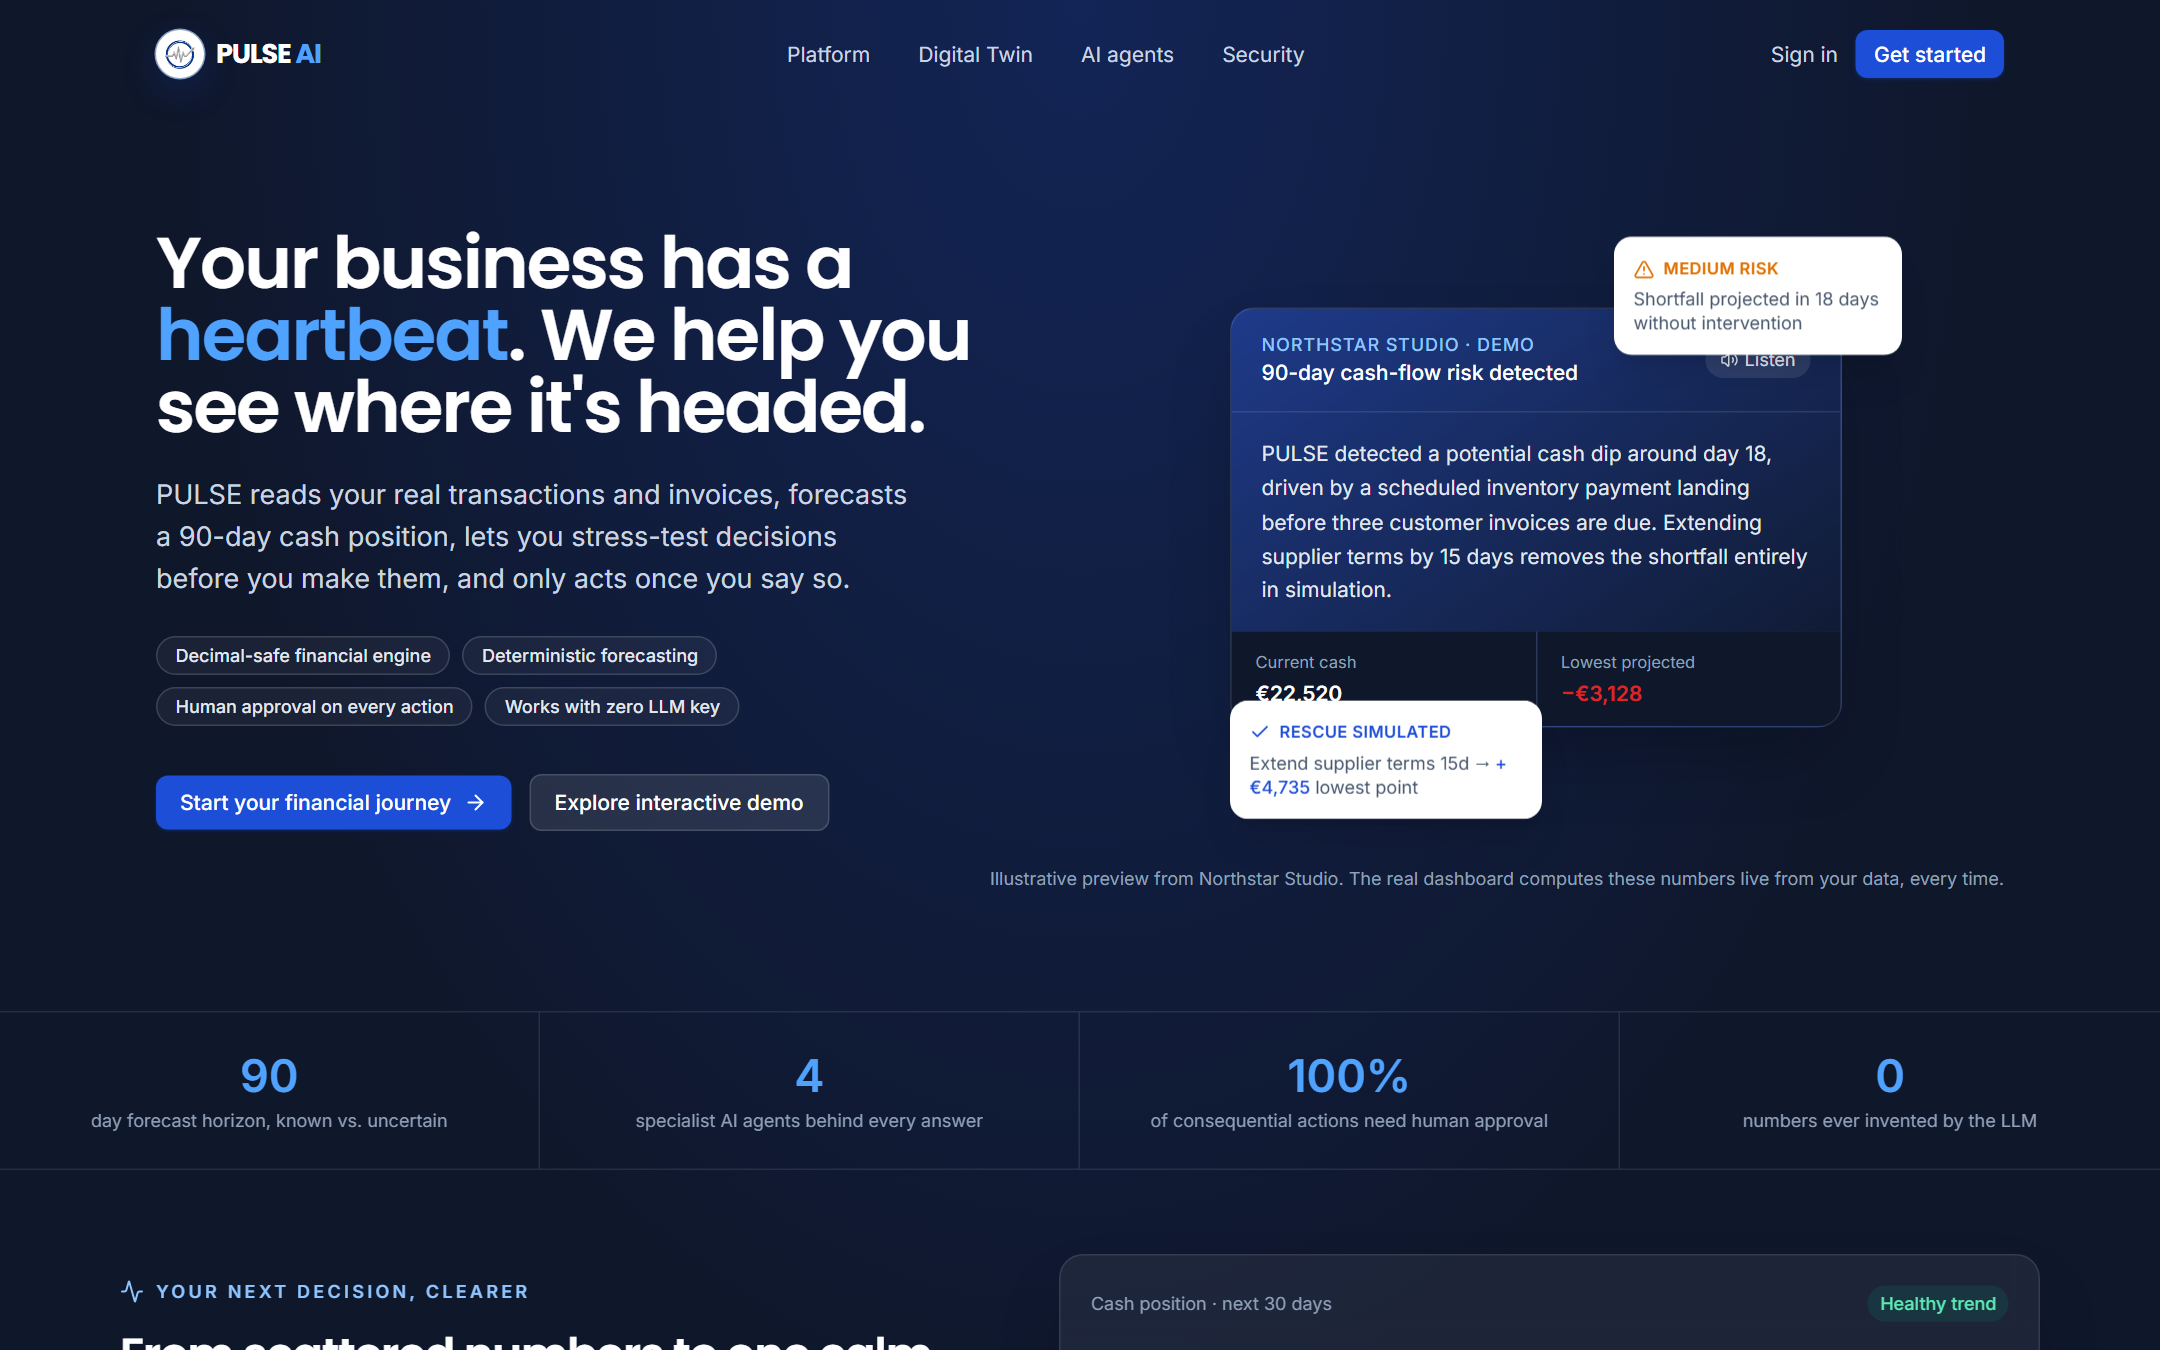
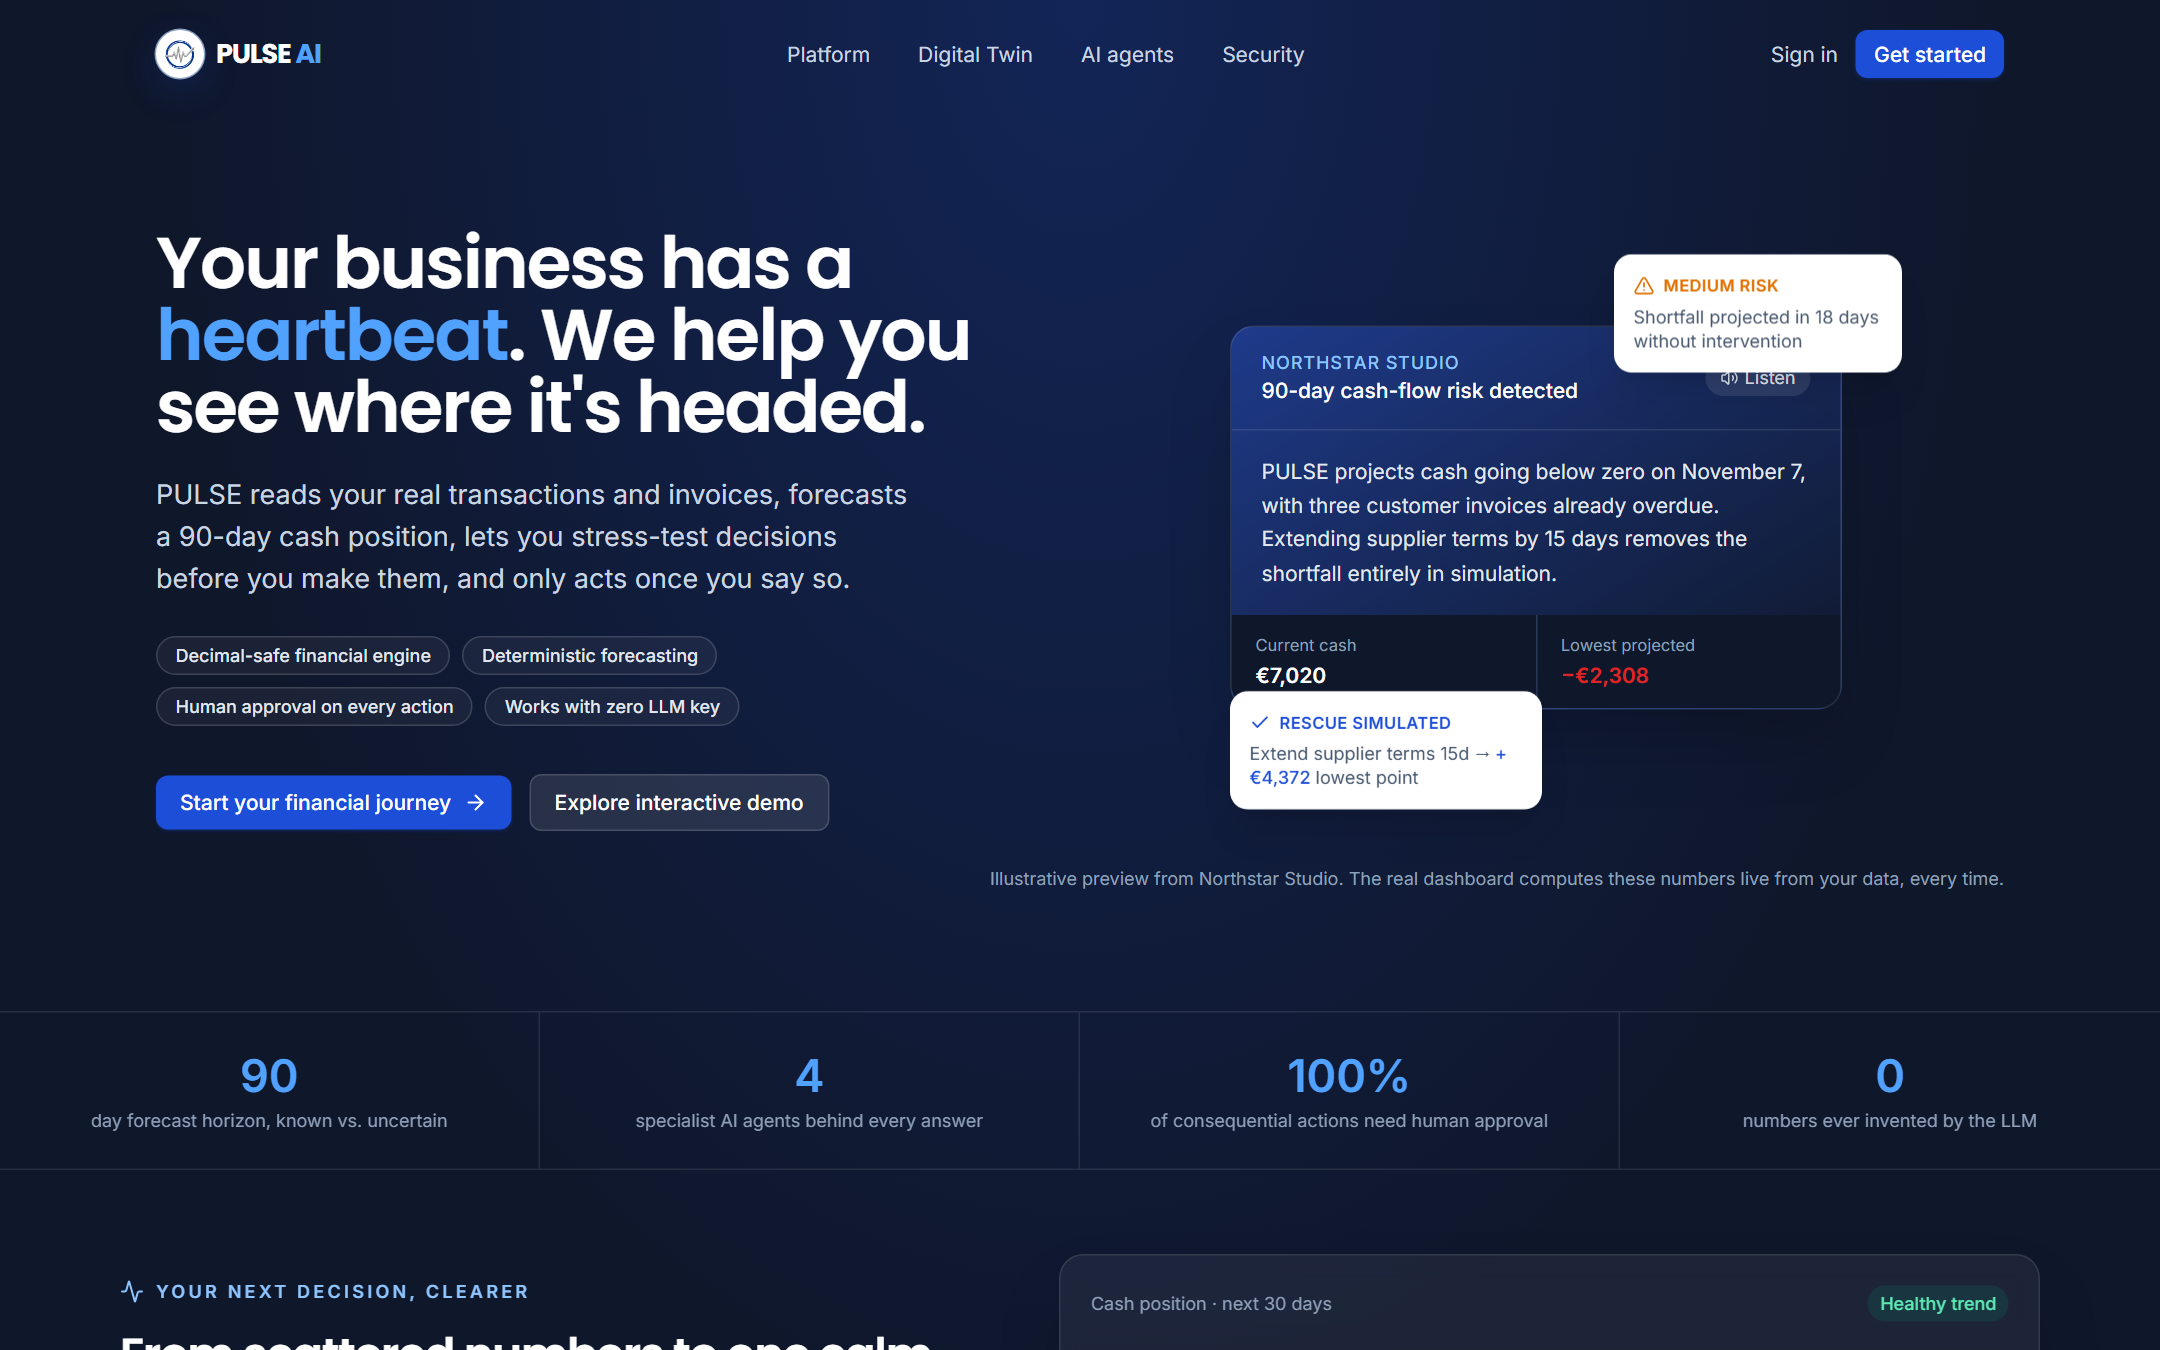
Update landing preview to current Northstar Studio figures and refresh screenshot

Changed region(s): [[0.5583, 0.1556, 0.8995, 0.6222]]

diff --git a/frontend/src/pages/Landing.tsx b/frontend/src/pages/Landing.tsx
@@ -147,7 +147,7 @@ export function Landing() {
               >
                 <div className="flex flex-wrap items-center justify-between gap-2 border-b border-white/10 px-5 py-4">
                   <div>
-                    <p className="text-xs font-medium uppercase tracking-wider text-blue-300">Northstar Studio · demo</p>
+                    <p className="text-xs font-medium uppercase tracking-wider text-blue-300">Northstar Studio</p>
                     <p className="text-sm font-medium text-white">90-day cash-flow risk detected</p>
                   </div>
                   <span className="flex items-center gap-1 rounded-full bg-white/10 px-2.5 py-1 text-xs text-slate-200">
@@ -155,13 +155,12 @@ export function Landing() {
                   </span>
                 </div>
                 <div className="px-5 py-4 text-sm leading-relaxed text-slate-200">
-                  PULSE detected a potential cash dip around day 18, driven by a scheduled inventory payment
-                  landing before three customer invoices are due. Extending supplier terms by 15 days removes
-                  the shortfall entirely in simulation.
+                  PULSE projects cash going below zero on November 7, with three customer invoices already
+                  overdue. Extending supplier terms by 15 days removes the shortfall entirely in simulation.
                 </div>
                 <div className="grid grid-cols-2 gap-px bg-white/10">
-                  <MiniStat label="Current cash" value="€22,520" />
-                  <MiniStat label="Lowest projected" value="−€3,128" tone="risk" />
+                  <MiniStat label="Current cash" value="€7,020" />
+                  <MiniStat label="Lowest projected" value="−€2,308" tone="risk" />
                 </div>
               </motion.div>
 
@@ -197,7 +196,7 @@ export function Landing() {
                   <span className="text-[11px] font-semibold uppercase tracking-wide">Rescue simulated</span>
                 </div>
                 <p className="mt-1 text-xs text-slate-600">
-                  Extend supplier terms 15d → <span className="font-medium text-brand">+€4,735</span> lowest
+                  Extend supplier terms 15d → <span className="font-medium text-brand">+€4,372</span> lowest
                   point
                 </p>
               </motion.div>

diff --git a/README.md b/README.md
@@ -16,7 +16,7 @@ It predicts the next shortfall, simulates rescue strategies in a Financial Digit
 <br/>
 ![Supabase](https://img.shields.io/badge/Supabase-PostgreSQL-3FCF8E?logo=supabase&logoColor=white)
 ![n8n](https://img.shields.io/badge/n8n-automations-EA4B71?logo=n8n&logoColor=white)
-![Tests](https://img.shields.io/badge/tests-87%20passed-14B8A6)
+![Tests](https://img.shields.io/badge/tests-passing-14B8A6)
 ![Human in the loop](https://img.shields.io/badge/actions-human%20approval-0B1F3A)
 
 [Why](#why-pulse-ai) · [Product](#the-product) · [Architecture](#architecture) · [Install and test](#installation-and-testing-guide) · [Responsible AI](#responsible-ai)
@@ -253,7 +253,7 @@ In terminal 1, with the virtual environment active:
 python -m pytest -q
 ```
 
-Expected result: `87 passed`. The tests use their own temporary SQLite database and do not touch your data. They cover authentication and email codes, tenant isolation, roles, onboarding, imports, the financial engine, forecast and simulation, rescue plans, agent tool permissions, the approval workflow, notifications and administration.
+Expected result: every test passes (`passed`, no failures). The tests use their own temporary SQLite database and do not touch your data. They cover authentication and email codes, tenant isolation, roles, onboarding, imports, the financial engine, forecast and simulation, rescue plans, agent tool permissions, the approval workflow, notifications and administration.
 
 To check the frontend build: `cd frontend && npm run build`.
 
